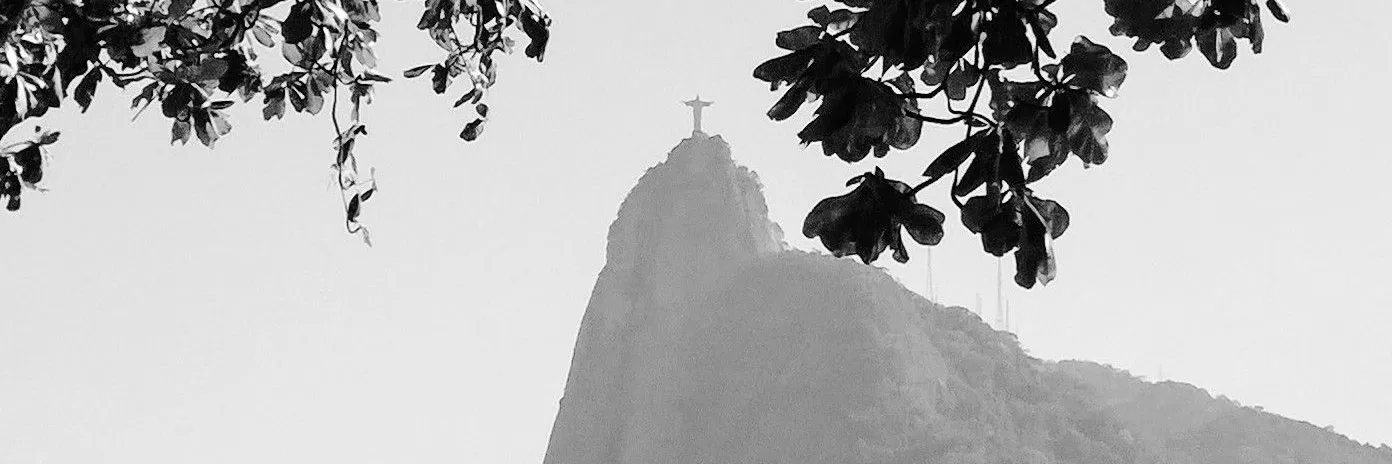
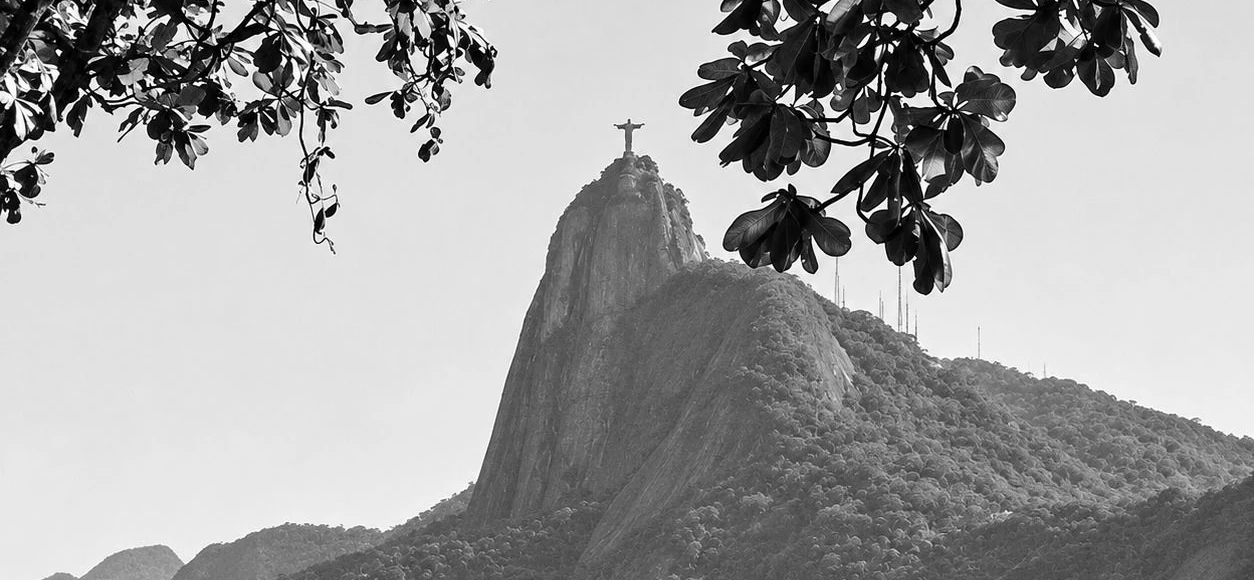
Faixa de CTA: foto nova mais nítida, exibida sem ampliação
- Nova foto do Corcovado (enviada pelo cliente), recorte 1254x580, WebP q90
- A foto não passa do tamanho real: fica centralizada (até 1254px) e as
  laterais se fundem no grafite (antes era esticada 1,5x em telas de 1920px)
- Remove filtro de contraste e a versão 800px (no celular a foto é reduzida)

diff --git a/assets/css/styles.css b/assets/css/styles.css
@@ -228,16 +228,23 @@ em { font-style: italic; }
   position: relative; overflow: hidden; color: var(--cream); padding: clamp(56px, 7vw, 104px) 0;
   background:
     linear-gradient(90deg, rgba(28, 26, 27, .9) 0%, rgba(28, 26, 27, .8) 28%, rgba(28, 26, 27, .38) 50%, rgba(28, 26, 27, .72) 72%, rgba(28, 26, 27, .84) 100%),
-    url("../img/corcovado.webp?v=3") 50% 22% / cover no-repeat,
+    url("../img/corcovado.webp?v=4") 50% 22% / cover no-repeat,
     var(--ink-2);
 }
 @supports (filter: grayscale(1)) {
   /* foto em tons neutros para manter a paleta grafite + dourado */
   .cta-band { background: var(--ink-2); }
-  .cta-band::before { content: ""; position: absolute; inset: 0; background: url("../img/corcovado.webp?v=3") 50% 22% / cover no-repeat; filter: grayscale(1) contrast(1.08); }
-  .cta-band::after { content: ""; position: absolute; inset: 0; background: linear-gradient(90deg, rgba(28, 26, 27, .9) 0%, rgba(28, 26, 27, .8) 28%, rgba(28, 26, 27, .38) 50%, rgba(28, 26, 27, .72) 72%, rgba(28, 26, 27, .84) 100%); }
+  /* a foto nunca é ampliada além do tamanho real (1254px): fica centralizada e
+     as laterais se fundem no grafite, evitando a perda de nitidez em telas largas */
+  .cta-band::before {
+    content: ""; position: absolute; top: 0; bottom: 0; left: 50%; width: min(100%, 1254px); transform: translateX(-50%);
+    background: url("../img/corcovado.webp?v=4") 50% 22% / cover no-repeat;
+    -webkit-mask-image: linear-gradient(90deg, transparent 0, #000 14%, #000 86%, transparent 100%);
+            mask-image: linear-gradient(90deg, transparent 0, #000 14%, #000 86%, transparent 100%);
+  }
+  .cta-band::after { content: ""; position: absolute; inset: 0; background: linear-gradient(90deg, rgba(28, 26, 27, .9) 0%, rgba(28, 26, 27, .78) 28%, rgba(28, 26, 27, .34) 50%, rgba(28, 26, 27, .7) 72%, rgba(28, 26, 27, .84) 100%); }
   @media (max-width: 760px) {
-    .cta-band::before { background-image: url("../img/corcovado-800.webp?v=3"); background-position: 50% 18%; }
+    .cta-band::before { -webkit-mask-image: none; mask-image: none; }
     /* no celular o texto ocupa a faixa inteira: camada uniforme para manter a leitura */
     .cta-band::after { background: rgba(28, 26, 27, .7); }
   }

diff --git a/index.html b/index.html
@@ -62,7 +62,7 @@
   <link rel="preconnect" href="https://fonts.googleapis.com">
   <link rel="preconnect" href="https://fonts.gstatic.com" crossorigin>
   <link href="https://fonts.googleapis.com/css2?family=Cormorant+Garamond:ital,wght@0,500;0,600;1,500&family=Inter:wght@400;500;600&display=swap" rel="stylesheet">
-  <link rel="stylesheet" href="assets/css/styles.css?v=17">
+  <link rel="stylesheet" href="assets/css/styles.css?v=18">
   <script>document.documentElement.classList.add('js')</script>
 </head>
 <body>
@@ -597,6 +597,6 @@
     </div>
   </dialog>
 
-  <script src="assets/js/main.js?v=17" defer></script>
+  <script src="assets/js/main.js?v=18" defer></script>
 </body>
 </html>

diff --git a/politica-de-privacidade.html b/politica-de-privacidade.html
@@ -18,7 +18,7 @@
   <link rel="preconnect" href="https://fonts.googleapis.com">
   <link rel="preconnect" href="https://fonts.gstatic.com" crossorigin>
   <link href="https://fonts.googleapis.com/css2?family=Cormorant+Garamond:ital,wght@0,500;0,600;1,500&family=Inter:wght@400;500;600&display=swap" rel="stylesheet">
-  <link rel="stylesheet" href="assets/css/styles.css?v=17">
+  <link rel="stylesheet" href="assets/css/styles.css?v=18">
   <script>document.documentElement.classList.add('js')</script>
 </head>
 <body>
@@ -128,6 +128,6 @@
     </div>
   </div>
 
-  <script src="assets/js/main.js?v=17" defer></script>
+  <script src="assets/js/main.js?v=18" defer></script>
 </body>
 </html>

diff --git a/termos-de-uso.html b/termos-de-uso.html
@@ -18,7 +18,7 @@
   <link rel="preconnect" href="https://fonts.googleapis.com">
   <link rel="preconnect" href="https://fonts.gstatic.com" crossorigin>
   <link href="https://fonts.googleapis.com/css2?family=Cormorant+Garamond:ital,wght@0,500;0,600;1,500&family=Inter:wght@400;500;600&display=swap" rel="stylesheet">
-  <link rel="stylesheet" href="assets/css/styles.css?v=17">
+  <link rel="stylesheet" href="assets/css/styles.css?v=18">
   <script>document.documentElement.classList.add('js')</script>
 </head>
 <body>
@@ -116,6 +116,6 @@
     </div>
   </div>
 
-  <script src="assets/js/main.js?v=17" defer></script>
+  <script src="assets/js/main.js?v=18" defer></script>
 </body>
 </html>
